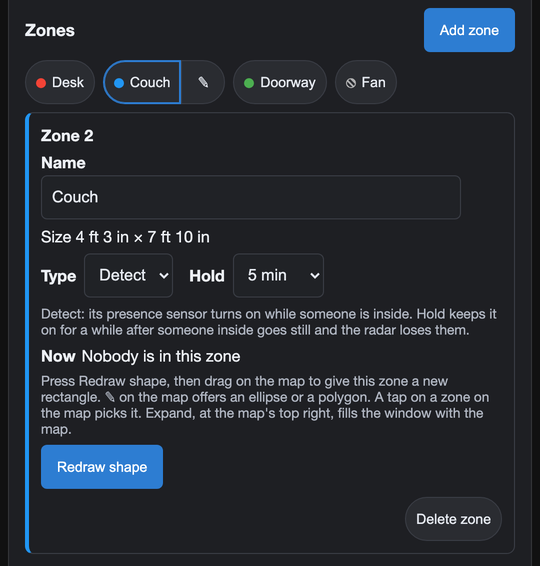
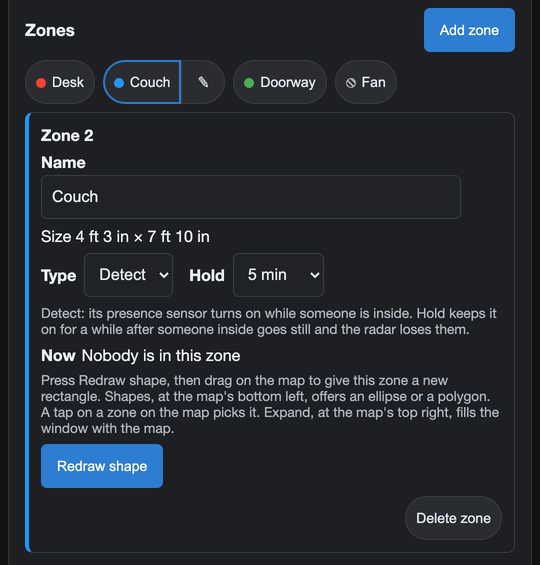
docs: show the Shapes button in the Apollo mmWave Dashboard zone map stills and fix the 2.4.2 rename steps
Re-rendered from the 2.4.2 zone map bundle in headless Chrome with a fake
hass, dark and the same 540 px width as before:

- apollo-mmwave-zone-map.png, the overview on a locked map, now shows the
  Shapes button (a triangle over a square and a circle) where 2.4.1 had
  the pencil.
- apollo-mmwave-zone-list.png and apollo-mmwave-zone-restore.png now show
  the new drawing hint, "Shapes, at the map's bottom left, offers an
  ellipse or a polygon."

Their alt texts say the same. The pencil beside the picked zone's button
(Draw shape) is unchanged.

Text fixes on top of the 2.4.2 rename:

- Renaming the old dashboard: a click on its row under Settings >
  Dashboards opens the dashboard on Home Assistant 2026.10 and 2026.11, so
  the step now uses the row's three-dot menu, Edit, Title and Update. The
  entry step names Entry name and OK.
- The reload notice example: a page that still runs the 2.4.1 cards says
  "Apollo mmWave was updated to 2.4.2", so the example quotes that, and
  says that cards from 2.4.2 on start it with Apollo mmWave Dashboard.
- Shapes is described by its icon where the guides first point at it.
- The Zone Mapper import line names Apollo mmWave Dashboard instead of the
  old name.

diff --git a/docs/products/general/setup/apollo-mmwave-dashboard.md b/docs/products/general/setup/apollo-mmwave-dashboard.md
@@ -12,7 +12,7 @@ Every tab starts with a **Start here** card that lists your sensor's first steps
 !!! info "What's new in 2.4.2"
 
     - **A new name.** Apollo mmWave is now called Apollo mmWave Dashboard. A setup from before 2.4.2 keeps **Apollo mmWave** as the name of its entry and its sidebar dashboard until you rename them: [Updating to Apollo mmWave Dashboard 2.4.2](apollo-mmwave-dashboard-setup.md#updating-to-apollo-mmwave-dashboard-242).
-    - **Shapes has its own button.** To draw an ellipse or a polygon, press **Shapes**, the shapes icon in the map's bottom-left corner. ✎ now only means **Draw shape**: [Draw a zone](#draw-a-zone).
+    - **Shapes has its own button.** To draw an ellipse or a polygon, press **Shapes**, the icon with a triangle over a square and a circle in the map's bottom-left corner. ✎ now only means **Draw shape**: [Draw a zone](#draw-a-zone).
 
 ??? info "What's new in 2.4.1"
 
@@ -75,7 +75,7 @@ The card changes nothing on its own. When it flags something, it says what's wro
 
 The last two have no button: the card explains them and leaves the new values to you. On an MTR-1, the **Radar setup** card under **Start here** checks the LD2450 instead, and an R PRO-1 tab has a second **Radar setup** card above the zone map for its LD2450. Both are covered in [Check the LD2450's Radar setup card](#check-the-ld2450s-radar-setup-card).
 
-After you update Apollo mmWave Dashboard, the **Radar setup** card can also show a notice above its checks, such as **Apollo mmWave Dashboard was updated to 2.4.2, but this page still runs 2.4.1.** with a **Reload** button. It means the page still runs the cards from before the update. [Load the new cards](apollo-mmwave-dashboard-setup.md#load-the-new-cards) explains each notice.
+After you update Apollo mmWave Dashboard, the **Radar setup** card can also show a notice above its checks, such as **Apollo mmWave was updated to 2.4.2, but this page still runs 2.4.1.** with a **Reload** button. It means the page still runs the cards from before the update. Cards from 2.4.2 on start the notice with **Apollo mmWave Dashboard**. [Load the new cards](apollo-mmwave-dashboard-setup.md#load-the-new-cards) explains each notice.
 
 ## Calibrate with an empty room
 
@@ -314,7 +314,7 @@ The zone map card shows your radar's name and the area the radar can see: a view
 
 On the Apollo mmWave Dashboard the zone map's section is two columns wide, so on a computer the map is about twice as wide as the cards beside it. On a phone it fills the screen's one column as before. The map is never taller than the window less about 200 px, so the page around it stays in view. In a wide, short window it gets narrower instead and sits in the middle of the card, though that limit never makes it shorter than 240 px, so a phone on its side still gets a map.
 
-![The zone map for an R PRO-1 named R PRO-1 Server Rack, in feet: the radar's view cone fills the grid from -16 ft to 16 ft across, with the caption Radar range 20 ft (6 m), 120°, and a rectangle named Zone 1 at the sensor, a circle named Zone 2, and a polygon named Zone 3, each with a pale fill and a dashed outline because nobody is in it. Expand, with its icon, sits in the map's top-right corner. Along the bottom of the grid are the ✎ button, the m / ft switch with ft selected, the dimmed ↶ undo button, and the Locked button, with the zoom buttons above those on the right: a dimmed minus, + and Fit. Under the grid are the Coverage button and the Zones panel: the Zones heading with the Add zone button, a button for each zone with its color dot, Zone 1 selected, and Zone 1's editor, edged in red, with the Name box reading Zone 1, Size 6 ft 7 in × 3 ft 3 in, the Type list at Detect and the Hold list at Off, the hint Detect: its presence sensor turns on while someone is inside. Hold keeps it on for a while after someone inside goes still and the radar loses them., Now Nobody is in this zone, the note The map is locked, so drawing is off. Unlock it to draw this zone or change its shape. with an Unlock button, and a Delete zone button. The collapsed Map settings section ends the card](/assets/apollo-mmwave-zone-map.png)
+![The zone map for an R PRO-1 named R PRO-1 Server Rack, in feet: the radar's view cone fills the grid from -16 ft to 16 ft across, with the caption Radar range 20 ft (6 m), 120°, and a rectangle named Zone 1 at the sensor, a circle named Zone 2, and a polygon named Zone 3, each with a pale fill and a dashed outline because nobody is in it. Expand, with its icon, sits in the map's top-right corner. Along the bottom of the grid are the Shapes button, with its icon of a triangle over a square and a circle, the m / ft switch with ft selected, the dimmed ↶ undo button, and the Locked button, with the zoom buttons above those on the right: a dimmed minus, + and Fit. Under the grid are the Coverage button and the Zones panel: the Zones heading with the Add zone button, a button for each zone with its color dot, Zone 1 selected, and Zone 1's editor, edged in red, with the Name box reading Zone 1, Size 6 ft 7 in × 3 ft 3 in, the Type list at Detect and the Hold list at Off, the hint Detect: its presence sensor turns on while someone is inside. Hold keeps it on for a while after someone inside goes still and the radar loses them., Now Nobody is in this zone, the note The map is locked, so drawing is off. Unlock it to draw this zone or change its shape. with an Unlock button, and a Delete zone button. The collapsed Map settings section ends the card](/assets/apollo-mmwave-zone-map.png)
 
 The map is in feet when Home Assistant uses US customary units (**Settings → System → General**), and in meters otherwise. The **m / ft** switch in the bottom-right corner of the map changes it. When an administrator presses it, the choice is saved for that radar, so everyone who opens its map sees that unit. Anyone else changes only their own view, until they reload the page. Zones are stored in millimeters either way, so switching units never moves a zone. The switch changes only the map, never the radar's Target X and Y sensors (see [Target X and Y units](#target-x-and-y-units)).
 
@@ -361,7 +361,7 @@ You draw each zone on the grid as a rectangle, ellipse, or polygon, or mark its 
 
     ![The zone map for an R PRO-1 named R PRO-1 Living Room, in feet and unlocked, ready to draw the Couch zone: the banner Drawing Couch, with a Cancel button at its left end, in the map's top-left corner, the Couch zone bright blue and dashed with a dot on each corner, and dot 1 a little outside its left edge. The Desk zone with dot 2 in it, the Doorway zone, and the Fan (ignored) zone are faint, with their names grayed. Expand sits in the map's top-right corner. Under the map are the Coverage button and the Zones heading with the Add zone button, above the Desk, Couch, Doorway, and Fan buttons, with Couch picked and ✕ (Cancel drawing) joined to it](/assets/apollo-mmwave-zone-map-armed.png)
 
-3. To draw an ellipse or a polygon, press **Shapes**, the shapes icon in the bottom-left corner, and pick a shape: ▭ (**Rectangle**), ◯ (**Ellipse**), or ⬠ (**Polygon**). The zone's editor says how to draw in the mode you picked. The map starts on **Rectangle** each time the page loads.
+3. To draw an ellipse or a polygon, press **Shapes**, the icon with a triangle over a square and a circle in the bottom-left corner, and pick a shape: ▭ (**Rectangle**), ◯ (**Ellipse**), or ⬠ (**Polygon**). The zone's editor says how to draw in the mode you picked. The map starts on **Rectangle** each time the page loads.
 4. For a rectangle or ellipse, drag across the grid and let go to save. A tap without a drag draws nothing, and a tap on another zone picks that zone.
 5. For a polygon, click each corner, then double-click or press ✓ (**Finish polygon**) to save. A polygon can have up to 32 points. ↺ (**Undo last point**) or **Backspace** removes the last point, and **Esc** drops the shape and stops drawing.
 
@@ -398,7 +398,7 @@ Drew over the wrong zone, or don't like the new shape? There are three ways back
 - **↶ on the map.** ↶ (**Undo last zone change**) in the map's bottom-right corner does the same for the last shape change made on this page, until you undo it or change another shape. It's grayed out while there's nothing to undo.
 - **Restore previous shape.** The integration keeps the shape each zone had before its last shape change in Home Assistant, along with when it was replaced. While the zone had a shape before that change, its editor shows **Restore previous shape** under the zone's size, with when, such as **Replaced 5 min ago**. It works after the page reloads, after the Home Assistant app comes back from the background, and from another phone or computer. It swaps the two shapes and says **Previous shape of Couch restored**, with **Undo**, and pressed again, it swaps them back. Each zone keeps one previous shape, so the next change to its shape replaces it. After **Clear all shapes**, each zone's editor offers its old shape back.
 
-![The Zones panel under the zone map with the Couch zone picked: the Zones heading with the Add zone button, the Desk, Couch, Doorway, and Fan buttons with ✎ joined to Couch, and the Couch zone's editor, titled Zone 2 and edged in blue: the Name box reading Couch, Size 4 ft 3 in × 7 ft 10 in, a Restore previous shape button with Replaced 5 min ago beside it, the Type list at Detect and the Hold list at 5 min, the Detect hint, Now Nobody is in this zone, the drawing hint Press Redraw shape, then drag on the map to give this zone a new rectangle. ✎ on the map offers an ellipse or a polygon. A tap on a zone on the map picks it. Expand, at the map's top right, fills the window with the map., a Redraw shape button, and a Delete zone button](/assets/apollo-mmwave-zone-restore.png)
+![The Zones panel under the zone map with the Couch zone picked: the Zones heading with the Add zone button, the Desk, Couch, Doorway, and Fan buttons with ✎ joined to Couch, and the Couch zone's editor, titled Zone 2 and edged in blue: the Name box reading Couch, Size 4 ft 3 in × 7 ft 10 in, a Restore previous shape button with Replaced 5 min ago beside it, the Type list at Detect and the Hold list at 5 min, the Detect hint, Now Nobody is in this zone, the drawing hint Press Redraw shape, then drag on the map to give this zone a new rectangle. Shapes, at the map's bottom left, offers an ellipse or a polygon. A tap on a zone on the map picks it. Expand, at the map's top right, fills the window with the map., a Redraw shape button, and a Delete zone button](/assets/apollo-mmwave-zone-restore.png)
 
 If a zone's shape changed somewhere else in the meantime, in another browser or with the `apollo_mmwave.update_zone` action, the card leaves it as it is and says so. It does the same when the shape Home Assistant kept is no longer the one this card would bring back, for example after another phone redrew the zone and then undid that. The message reads **Couch was changed in the meantime, so it was not undone.** or **Couch was changed in the meantime, so nothing was restored.** An **Undo** of **Clear all shapes** still puts the other zones back.
 
@@ -426,7 +426,7 @@ The picked zone's editor sits under the buttons, with the zone's number as its h
 
 A name, a **Type**, or a **Hold** saves on its own, with no **Save** button. Beside the zone's heading the card shows **Saving...**, then **Saved**. A shape you draw shows a message with the zone's name and **Undo** instead, such as **Couch redrawn**.
 
-![The Zones panel under the zone map: the Zones heading with the Add zone button, then the Desk, Couch, Doorway, and Fan buttons, each with its zone's color dot and Fan's hatched, with Couch picked and ✎ joined to it, and the Couch zone's editor, titled Zone 2 and edged in blue: the Name box reading Couch, Size 4 ft 3 in × 7 ft 10 in, the Type list at Detect and the Hold list at 5 min, the hint Detect: its presence sensor turns on while someone is inside. Hold keeps it on for a while after someone inside goes still and the radar loses them., Now Nobody is in this zone, the drawing hint Press Redraw shape, then drag on the map to give this zone a new rectangle. ✎ on the map offers an ellipse or a polygon. A tap on a zone on the map picks it. Expand, at the map's top right, fills the window with the map., a Redraw shape button, and a Delete zone button](/assets/apollo-mmwave-zone-list.png)
+![The Zones panel under the zone map: the Zones heading with the Add zone button, then the Desk, Couch, Doorway, and Fan buttons, each with its zone's color dot and Fan's hatched, with Couch picked and ✎ joined to it, and the Couch zone's editor, titled Zone 2 and edged in blue: the Name box reading Couch, Size 4 ft 3 in × 7 ft 10 in, the Type list at Detect and the Hold list at 5 min, the hint Detect: its presence sensor turns on while someone is inside. Hold keeps it on for a while after someone inside goes still and the radar loses them., Now Nobody is in this zone, the drawing hint Press Redraw shape, then drag on the map to give this zone a new rectangle. Shapes, at the map's bottom left, offers an ellipse or a polygon. A tap on a zone on the map picks it. Expand, at the map's top right, fills the window with the map., a Redraw shape button, and a Delete zone button](/assets/apollo-mmwave-zone-list.png)
 
 ### Rename a zone
 

diff --git a/docs/products/general/setup/apollo-mmwave-dashboard-setup.md b/docs/products/general/setup/apollo-mmwave-dashboard-setup.md
@@ -132,7 +132,7 @@ An MTR-1 tab is built around the zone map, with everything for its LD2450 radar 
 
 - **Start here** lists three steps (fix anything the Radar setup card flags, set **Cone rotation** under **Map settings** on the zone map, then press **Add zone** under the map, draw the zone, and walk into it), says which presence sensor to use in automations, and links to your sensor's own page.
 - **Radar setup** checks **Zone Type** and **Multi Target Tracking**, the two radar settings that decide whether the map can show people, and fixes them when you press its button. **Zone Type** should be **Disabled**, because the zone map replaces the radar's own built-in zones.
-- The zone map, titled with your sensor's name, shows the radar's view, a cone 120 degrees wide and about 6 m (20 ft) out, with a numbered dot for each target the LD2450 is tracking, and fills in each zone while someone is in it. It's in feet or meters to match Home Assistant, and the **m / ft** switch on the map changes it. **Shapes**, the shapes icon in the lower left, opens the drawing modes, and the lower right holds the unit switch and the undo and lock buttons, with the zoom buttons (−, +, and **Fit**) above them. Under the grid are the **Coverage** button (on a phone or tablet, with **🚶 Mark corners by walking** before it for administrators), the **Zones** panel, and a collapsed **Map settings** section. **Zones** holds **Add zone**, a button for each zone, and an editor for the zone you pick, with its name, size, **Type**, **Hold** time, **Draw shape** (**Redraw shape** once the zone has a shape), which gets the map ready to draw that zone, and **Delete zone**. **Map settings** holds the cone rotation slider with the hint to mount the sensor first, **Flip the map left to right (display only)**, **Movement history** (for administrators), and **Clear all shapes**. **Expand** in the map's top-right corner (the icon alone on a phone) gives the map the whole window when the card feels cramped.
+- The zone map, titled with your sensor's name, shows the radar's view, a cone 120 degrees wide and about 6 m (20 ft) out, with a numbered dot for each target the LD2450 is tracking, and fills in each zone while someone is in it. It's in feet or meters to match Home Assistant, and the **m / ft** switch on the map changes it. **Shapes**, the icon with a triangle over a square and a circle in the lower left, opens the drawing modes, and the lower right holds the unit switch and the undo and lock buttons, with the zoom buttons (−, +, and **Fit**) above them. Under the grid are the **Coverage** button (on a phone or tablet, with **🚶 Mark corners by walking** before it for administrators), the **Zones** panel, and a collapsed **Map settings** section. **Zones** holds **Add zone**, a button for each zone, and an editor for the zone you pick, with its name, size, **Type**, **Hold** time, **Draw shape** (**Redraw shape** once the zone has a shape), which gets the map ready to draw that zone, and **Delete zone**. **Map settings** holds the cone rotation slider with the hint to mount the sensor first, **Flip the map left to right (display only)**, **Movement history** (for administrators), and **Clear all shapes**. **Expand** in the map's top-right corner (the icon alone on a phone) gives the map the whole window when the card feels cramped.
 - **Zone presence**, **LD2450 Live**, and **Occupancy History** show each zone's presence sensor, what the radar reports right now, and the last 24 hours. **LD2450 Presence**, the first row of **LD2450 Live** and a line in **Occupancy History**, is on while the radar sees anyone anywhere in its view, whether or not they're in a zone.
 - **LD2450 Controls**, the radar's built-in zones (only while Zone Type isn't **Disabled**), and the **Device** card end the tab.
 
@@ -273,7 +273,7 @@ An update takes effect after a restart, and a browser or the Home Assistant app 
 
 On updates from 2.4.0 or later, the cards tell you when one of these steps is still to do. The **Radar setup** card shows a notice above its checks. A zone map card, view-only ones included, shows it under its title when it comes before any **Radar setup** card on the page, as on a dashboard of your own:
 
-- **Apollo mmWave Dashboard was updated to 2.4.2, but this page still runs 2.4.1.**, with a **Reload** button and the line **In the Home Assistant app, if Reload does not help, close the app fully and open it again.** The page still runs the cards from before the update, and cards from 2.4.1 or earlier word it **Apollo mmWave was updated to 2.4.2, but this page still runs 2.4.1.** Press **Reload**.
+- **Apollo mmWave was updated to 2.4.2, but this page still runs 2.4.1.**, with a **Reload** button and the line **In the Home Assistant app, if Reload does not help, close the app fully and open it again.** The page still runs the cards from before the update. Press **Reload**. Cards from 2.4.2 on start this notice with **Apollo mmWave Dashboard** instead of **Apollo mmWave**.
 - **Apollo mmWave Dashboard 2.4.2 is installed, but Home Assistant still runs 2.4.1. Restart Home Assistant to finish updating.** The page already runs the new cards, but Home Assistant hasn't restarted since the update. Restart it as step 1 shows, and the notice turns into the **Reload** one if the page needs it.
 
 The version numbers are the ones on your system. Only one card on the page shows the notice, and it goes away once the page and Home Assistant run the same version. Cards from earlier releases have no such check, so on the update to 2.4.0 itself, no notice doesn't mean the page runs the new cards: do the steps above anyway.
@@ -283,13 +283,13 @@ The version numbers are the ones on your system. Only one card on the page shows
 2.4.2 gives the integration a new name, gives the zone map's drawing modes a button of their own, and gets zone sensors ready for a Home Assistant change due in 2027.11. Your zones, calibration values, and automations carry over as they are, and nothing needs doing by hand unless your dashboard resources are managed in YAML. After the restart and a reload, check these if they apply to you:
 
 - **A new name.** Apollo mmWave is now called Apollo mmWave Dashboard. HACS, the Marketplace, **Settings → Devices & services**, and **Community dashboards** in the dashboard picker (where it was **Apollo Radar Tuning**) show the new name, and a new setup names its entry and its sidebar dashboard **Apollo mmWave Dashboard**. A setup from before 2.4.2 keeps its entry and its sidebar dashboard under the old name, **Apollo mmWave**, until you rename them:
-    - **The entry:** go to **Settings → Devices & services → Apollo mmWave Dashboard**, open the three-dot menu on the **Apollo mmWave** entry, choose **Rename**, and enter the new name.
-    - **The dashboard:** go to **Settings → Dashboards**, click the dashboard at `/apollo-mmwave`, and change its **Title**.
+    - **The entry:** go to **Settings → Devices & services → Apollo mmWave Dashboard**, open the three-dot menu on the **Apollo mmWave** entry, and choose **Rename**. Change **Entry name** to **Apollo mmWave Dashboard** and click **OK**.
+    - **The dashboard:** go to **Settings → Dashboards**, open the three-dot menu at the end of the **Apollo mmWave** row, the dashboard at `/apollo-mmwave`, and choose **Edit**. Change **Title** to **Apollo mmWave Dashboard** and click **Update**. A click on the row itself opens the dashboard instead.
 
     The `/apollo-mmwave` address, your entity IDs, device names, and actions don't change, so automations need nothing. Messages about the integration's dashboard now name it by that address, such as **The dashboard at /apollo-mmwave is a saved copy**, and a copy that a restore keeps from now on is named **Apollo mmWave Dashboard (saved copy)**.
 
 - **A card still looks like 2.4.1.** Reload it as [Load the new cards](#load-the-new-cards) shows. Until the page runs the 2.4.2 cards, the **Radar setup** card shows **Apollo mmWave was updated to 2.4.2, but this page still runs 2.4.1.** with a **Reload** button. It still says Apollo mmWave because the 2.4.1 cards write that line.
-- **Shapes has its own button.** The button in the zone map's bottom-left corner that opens the drawing modes is now **Shapes**, with a shapes icon instead of ✎. ✎ now only means **Draw shape**, beside the picked zone's button. [Draw a zone](apollo-mmwave-dashboard.md#draw-a-zone) shows both.
+- **Shapes has its own button.** The button in the zone map's bottom-left corner that opens the drawing modes is now **Shapes**, with an icon of a triangle over a square and a circle instead of ✎. ✎ now only means **Draw shape**, beside the picked zone's button. [Draw a zone](apollo-mmwave-dashboard.md#draw-a-zone) shows both.
 - **Changing a zone sensor's entity ID.** On Home Assistant 2026.11 or newer, a zone's sensors take a new entity ID in place, the way Home Assistant 2027.11 will require, instead of being removed and added again. Nothing changes on 2026.10 or earlier. On every version, the zone map, zone presence, and a hold that's running follow the new ID (see [Use the zone sensors](apollo-mmwave-dashboard.md#use-the-zone-sensors)).
 - **Dashboard resources managed in YAML.** Replace both `?v=` addresses with the ones the log warning lists (see [An Apollo card shows an error after an update](#an-apollo-card-shows-an-error-after-an-update)).
 
@@ -414,7 +414,7 @@ And here's what changes without you doing anything:
 - **Target sensors are found automatically.** The old **Device and Targets** picker is gone; the integration locates each radar's LD2450 target sensors itself.
 - **Zone entities move onto the radar's device page.** Your entity IDs, custom names, and area assignments are kept, and you can rename the entities freely.
 - **Renaming a radar no longer loses its zones**, because zones are stored per device rather than per display name. If you renamed a radar *before* upgrading, its zones are kept but not shown: the card comes up empty and the zone entities read as unavailable. Rename the radar back to its old name and reload the integration to bring them back, or keep the new name and redraw the zones.
-- **Zones from the standalone [Zone Mapper](/products/general/calibrating-and-updating/zone-configuration/zone-mapper-tool.md) integration are imported** when Apollo mmWave has no zone data of its own yet: on a fresh install, or when upgrading from a version before 1.2.0. The import only reads; nothing belonging to Zone Mapper is renamed or removed. Upgrading from 1.2.0 or later, the import is skipped and your existing Apollo mmWave zones are kept. Redraw any Zone Mapper zones you want on the zone map, then remove the old integration once you're happy with them.
+- **Zones from the standalone [Zone Mapper](/products/general/calibrating-and-updating/zone-configuration/zone-mapper-tool.md) integration are imported** when Apollo mmWave Dashboard has no zone data of its own yet: on a fresh install, or when upgrading from a version before 1.2.0. The import only reads; nothing belonging to Zone Mapper is renamed or removed. Upgrading from 1.2.0 or later, the import is skipped and your existing zones are kept. Redraw any Zone Mapper zones you want on the zone map, then remove the old integration once you're happy with them.
 
 !!! warning "Keep Zone Mapper until your zones have moved over"
 
